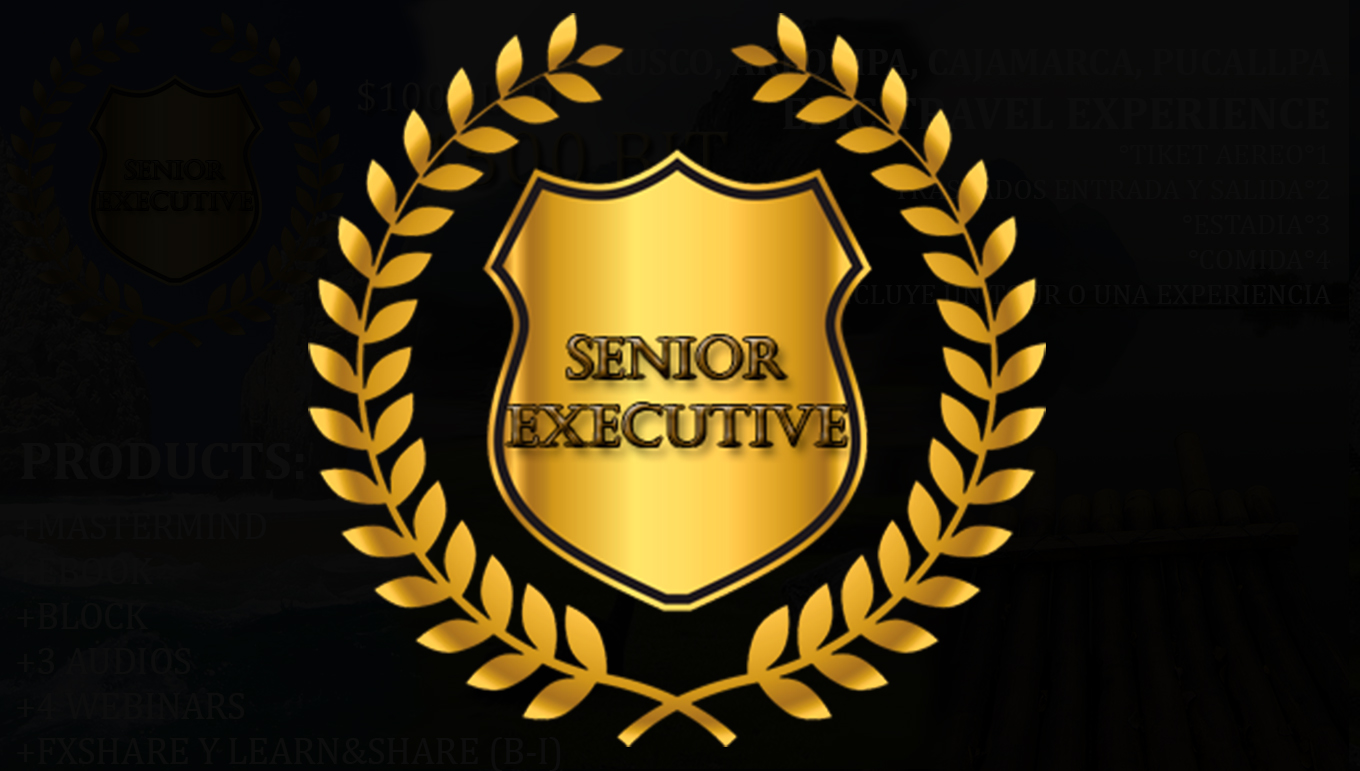
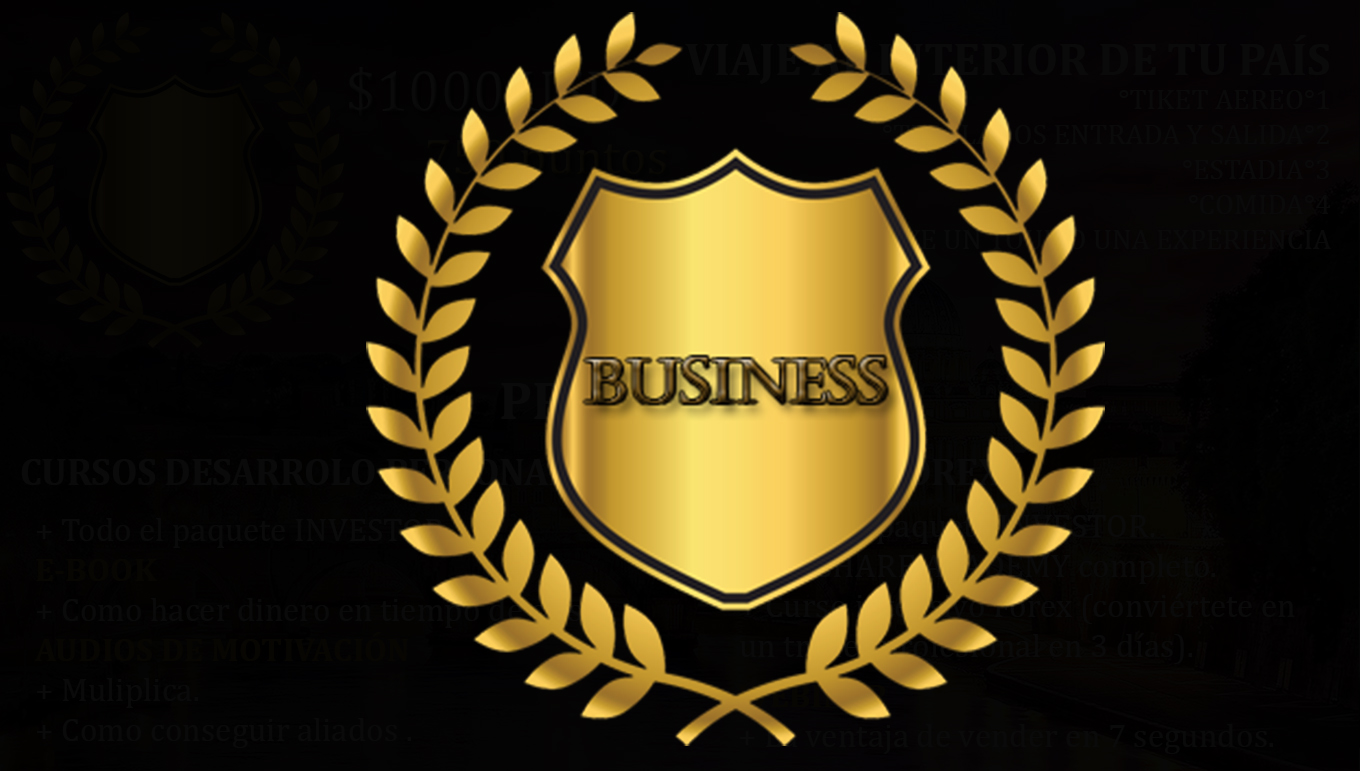
changes on plan home

diff --git a/application/controllers/package.php b/application/controllers/package.php
@@ -46,17 +46,17 @@ class Package extends CI_Controller {
         }elseif($package == "investor"){
             $data['title'] = "INVESTOR";
             $data['title_content'] = "VIAJE EXCLUSIVO SORPRESA";
-            $data['content'] = "<b>PRECIO: $500</b><br><b>RECIBES</b><br>+375 PUNTOS<br>+MASTERMIND (Entrenamiento)<br> +EBOOK (libro digital)<br>+3 AUDIOS<br>+BLOCK<br>+4 WEBINARS";
+            $data['content'] = "<b>PRECIO: $500</b><br><b>RECIBES</b><br>+375 PUNTOS<br><b>DESARROLLO PERSONAL</b><br>+TODO EL PAQUETE EXECUTIVE<br>+PROGRAMA DE PNL Y PERSUASIÓN (E- book)<br>+LA VENTAJA DE VENDER EN 7 SEGUNDOS (Webinar)<br>+COMO CONSEGUIR ALIADOS (Audios)<br>+MULTIPLICA<br><b>CURSOS FOREX</b><br>+TODO EL PAQUETE EXECUTIVE<br>+BITSHARE ACADEMY Completo<br>+BITSHARE Graphics y Strategies";
             $data['image'] = "static/page_front/white/images/front/packet/investor.jpg";
-        }elseif($package == "senior_executive"){
+        }elseif($package == "business"){
             $data['title'] = "SENIOR EXECUTIVE";
             $data['title_content'] = "VIAJE AL INTERIOR DE TU PAÍS";
-            $data['content'] = "<b>PRECIO: $1000</b><br>TICKET AEREO<br>TRASLADO ENTRADA / SALIDA<br>ESTADIA<br>COMIDA<br>INCLUYE TOUR<b><br><br>RECIBES</b><br>+1500 BIT<br>+MASTERMIND (Entrenamiento)<br> +EBOOK (libro digital)<br>+3 AUDIOS<br>+BLOCK<br>+4 WEBINARS<br>+FXSHARE Y LEARN&SHARE (B-I)";
-            $data['image'] = "static/page_front/white/images/front/packet/senior.jpg";
+            $data['content'] = "<b>PRECIO: $1000</b><br>TICKET AEREO<br>TRASLADO ENTRADA / SALIDA<br>ESTADIA<br>COMIDA<br>INCLUYE TOUR<b><br>RECIBES</b><br>+750 PUNTOS<br><b>DESARROLLO PERSONAL</b><br>+TODO EL PAQUETE INVESTOR<br>+COMO HACER DINERO EN TIEMPO DE CRISIS (E- book)<br>+LA VENTAJA DE VENDER EN 7 SEGUNDOS (Webinar)<br>+MULTIPLICA (Audios)<br>+COMO CONSEGUIR ALIADOS <br><b>CURSOS FOREX</b><br>+TODO EL PAQUETE INVESTOR<br>+CURSO INTENSIVO DE FOREX (Conviértete en in trade profesional en 3 días)";
+            $data['image'] = "static/page_front/white/images/front/packet/business.jpg";
         }else{
             $data['title'] = "MASTER";
             $data['title_content'] = "VIAJE INTERNACIONAL";
-            $data['content'] = "<b>PRECIO: $3000</b><br>TICKET AEREO<br>TRASLADO ENTRADA / SALIDA<br>ALL INCLUDE (TODO INCLUIDO)<br>INCLUYE TOUR<b><br><br>RECIBES</b><br>+4500 BIT<br>+3 MASTERMIND (Entrenamiento)<br> +EBOOK (libro digital)<br>+6 AUDIOS<br>+BLOCK<br>+6 WEBINARS<br>+FXSHARE Y LEARN&SHARE (B-I-A)";
+            $data['content'] = "<b>PRECIO: $3000</b><br>TICKET AEREO<br>TRASLADO ENTRADA / SALIDA<br>ALL INCLUDE (TODO INCLUIDO)<br>INCLUYE TOUR<b><br>RECIBES</b><br>+2250 PUNTOS<br><b>DESARROLLO PERSONAL</b><br>+TODO EL PAQUETE BUSINESS<br>+PROGRAMA DE ADOCTRINAMIENTO (E- book)<br>+¿QUIÉN SOY REALMENTE?<br>+HIPNOSIS CONVERSACIONAL (Webinar)<br>+TU NOMBRE, TU BANDERA  (Audios)<br>+INGENIERÍA SOCIAL<br><b>CURSOS FOREX</b><br>+TODO EL PAQUETE BUSINESS<br>+CONVERSATORIO PRIVADOR CON NUESTRO TRADER EN JEFE SERGIO URBINA";
             $data['image'] = "static/page_front/white/images/front/packet/master.jpg";
         }
         

diff --git a/application/views/package.php b/application/views/package.php
@@ -79,7 +79,7 @@
 					<div class="item">
 						<div class="work_item">
 							<div class="work_img">
-                                                            <img src="<?php echo site_url().'static/page_front/white/images/front/packet/basic.jpg';?>" alt="paquete" />
+                                                            <img src="<?php echo site_url().'static/page_front/white/images/front/packet/basic.jpg';?>" alt="paquete basic"/>
 							</div>
 							<div class="work_description">
 								<div class="work_descr_cont">
@@ -94,7 +94,7 @@
 					<div class="item">
 						<div class="work_item">
 							<div class="work_img">
-								<img src="<?php echo site_url().'static/page_front/white/images/front/packet/executive.jpg';?>" alt="paquete" />
+								<img src="<?php echo site_url().'static/page_front/white/images/front/packet/executive.jpg';?>" alt="paquete executive"/>
 							</div>
 							<div class="work_description">
 								<div class="work_descr_cont">
@@ -105,16 +105,30 @@
 						</div>
 					</div><!-- //work2 -->
 					
+                                        <!-- work5 -->
+					<div class="item">
+						<div class="work_item">
+							<div class="work_img">
+								<img src="<?php echo site_url().'static/page_front/white/images/front/packet/investor.jpg';?>" alt="paquete investor"/>
+							</div>
+							<div class="work_description">
+								<div class="work_descr_cont">
+									<a href="<?php echo site_url().'paquete/investor';?>">Paquete Investor</a>
+									<span><?php echo replace_vocales_voculeshtml("Actívate Ahora");?></span>
+								</div>
+							</div>
+						</div>
+					</div><!-- //work5 -->
+                                        
 					<!-- work3 -->
 					<div class="item">
 						<div class="work_item">
 							<div class="work_img">
-								<img src="<?php echo site_url().'static/page_front/white/images/front/packet/senior.jpg';?>" alt="paquete" />
-								<a class="zoom" href="!projects/project3.html" ></a>
+								<img src="<?php echo site_url().'static/page_front/white/images/front/packet/business.jpg';?>" alt="paquete business"/>
 							</div>
 							<div class="work_description">
 								<div class="work_descr_cont">
-									<a href="<?php echo site_url().'paquete/senior_executive';?>" >Paquete Senior Executive</a>
+									<a href="<?php echo site_url().'paquete/business';?>" >Paquete Business</a>
                                                                     <span><?php echo replace_vocales_voculeshtml("Actívate Ahora");?></span>
 								</div>
 							</div>
@@ -125,7 +139,7 @@
 					<div class="item">
 						<div class="work_item">
 							<div class="work_img">
-								<img src="<?php echo site_url().'static/page_front/white/images/front/packet/master.jpg';?>" alt="paquete" />
+								<img src="<?php echo site_url().'static/page_front/white/images/front/packet/master.jpg';?>" alt="paquete master"/>
 							</div>
 							<div class="work_description">
 								<div class="work_descr_cont">

diff --git a/application/views/home.php b/application/views/home.php
@@ -218,7 +218,7 @@
 							</div>
 							<div class="work_description">
 								<div class="work_descr_cont">
-									<a href="<?php echo site_url().'paquete/senior_executive';?>">BUSINESS</a>
+									<a href="<?php echo site_url().'paquete/business';?>">BUSINESS</a>
                                                                         <!--<a href="portfolio-post.html" >SENIOR EXECUTIVE</a>-->
                                                                         <span><b>$1,000.00</b></span>
 								</div>
